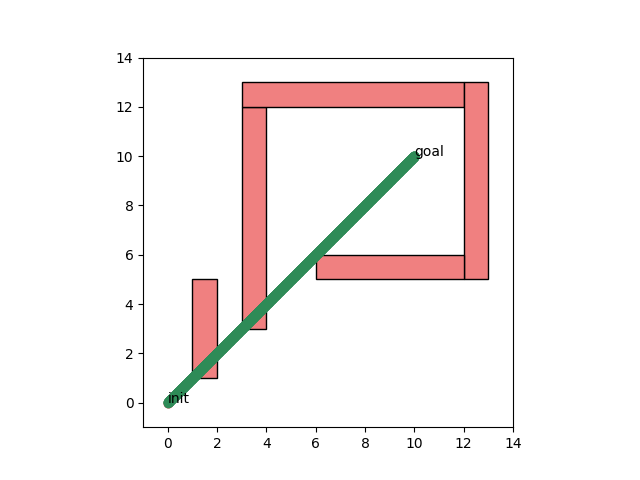
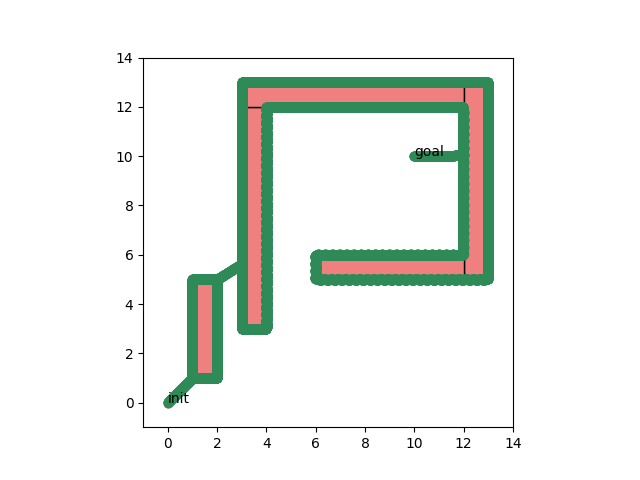
Added Bug1 Perimeter Following and finished Bug1. No explicit error handling

Changed region(s): [[0.2812, 0.1562, 0.7812, 0.8125]]

diff --git a/ws/hw2/Bug1.cpp b/ws/hw2/Bug1.cpp
@@ -3,34 +3,88 @@
 // Implement your methods in the `.cpp` file, for example:
 amp::Path2D Bug1::plan(const amp::Problem2D& problem) {
 
-    // Your algorithm solves the problem and generates a path. Here is a hard-coded to path for now...
     amp::Path2D path;
     path.waypoints.push_back(problem.q_init);
 
-    // Move Towards Goal
     Eigen::Vector2d dir = (problem.q_goal - path.waypoints.back()).normalized();
     Eigen::Vector2d q_next = dir * step_size + path.waypoints.back();
+
+    Eigen::Rotation2D<double> rot(M_PI / 36);
+    Eigen::Rotation2D<double> rot90CW(-M_PI / 2);
+
     while (true){
-        while (true){
+        while (true){ // Move Towards Goal
             dir = (problem.q_goal - path.waypoints.back()).normalized();
             q_next = dir * step_size + path.waypoints.back();
             if ((problem.q_goal - path.waypoints.back()).norm() < step_size){
-                path.waypoints.push_back(problem.q_goal);
+                path.waypoints.push_back(problem.q_goal); // reached goal
                 return path;
-            } else if(check_collisions(q_next)) {
-                break;
+            } else if(check_collisions(q_next, problem.obstacles)) {
+                break; // detected obstacle
             } else {
                 path.waypoints.push_back(q_next);
             }
         }
-        Eigen::Vector2d q_hit = path.waypoints.back();
-        size_t q_hit_index = path.waypoints.size() - 1;
+        // initialize variables for perimeter following
+        size_t q_hit_i = path.waypoints.size() - 1;
+        size_t q_leave_i = path.waypoints.size() - 1;
+        double dist = (problem.q_goal - path.waypoints[q_hit_i]).norm();
+        double best_dist = dist;
 
+        while(true){
+            // Turn away from obstacle to avoid collision and ensure 90 deg sensor can see obstacle
+            while(check_collisions(q_next, problem.obstacles) || !check_collisions((rot90CW * dir) * step_size + path.waypoints.back(), problem.obstacles)){ // Rotate left
+                dir = rot * dir;
+                q_next = dir * step_size + path.waypoints.back();
+            }
+            path.waypoints.push_back(q_next);
+            // Check if point is closer to goal than all other points and store it if so.
+            dist = (problem.q_goal - path.waypoints.back()).norm();
+            if (dist < best_dist) {
+                q_leave_i = path.waypoints.size() - 1;
+                best_dist = dist;
+            }
+            // Check if returned to leave point
+            if (((path.waypoints.size() - q_hit_i) > 4) && (path.waypoints[q_hit_i] - path.waypoints.back()).norm() <= step_size){
+                break;
+            }
+            // Turn & move towards obstacle if robot left perimeter
+            while (!check_collisions((rot90CW * dir) * step_size + path.waypoints.back(), problem.obstacles)){
+                dir = rot90CW * dir;
+                path.waypoints.push_back(dir * step_size + path.waypoints.back());
+                // Check if point is closer to goal than all other points and store it if so.
+                dist = (problem.q_goal - path.waypoints.back()).norm();
+                if (dist < best_dist){
+                    q_leave_i = path.waypoints.size() - 1;
+                    best_dist = dist;
+                }
+            }
+            // Check if returned to leave point
+            if (((path.waypoints.size() - q_hit_i) > 4) && (path.waypoints[q_hit_i] - path.waypoints.back()).norm() <= step_size){
+                break;
+            }
+            // Reset q_next for next loop
+            q_next = dir * step_size + path.waypoints.back();
+        }
 
+        // Return to the closest leave point to goal via the fastest path
+        if(q_leave_i - q_hit_i < (path.waypoints.size() - 1 - q_leave_i)){
+            for(int i = q_hit_i; i <= q_leave_i; i++){
+                path.waypoints.push_back(path.waypoints[i]);
+            }
+        } else {
+            for(int i = path.waypoints.size() - 1; i >= q_leave_i; i--){
+                path.waypoints.push_back(path.waypoints[i]);
+            }
+        }
+
+        // Check if there is path towards goal from leave point
+        dir = (problem.q_goal - path.waypoints.back()).normalized();
+        q_next = dir * step_size + path.waypoints.back();
+        if (check_collisions(q_next, problem.obstacles)){
+            break;
+        }
     }
-
-    path.waypoints.push_back(problem.q_goal);
-
     return path;
 }
 

diff --git a/ws/hw2/Bug1.h b/ws/hw2/Bug1.h
@@ -2,6 +2,7 @@
 
 #include "AMPCore.h"
 #include "hw/HW2.h"
+#include <Eigen/Geometry>
 
 /// @brief Declare your bug algorithm class here. Note this class derives the bug algorithm class declared in HW2.h
 class Bug1 : public amp::BugAlgorithm {
